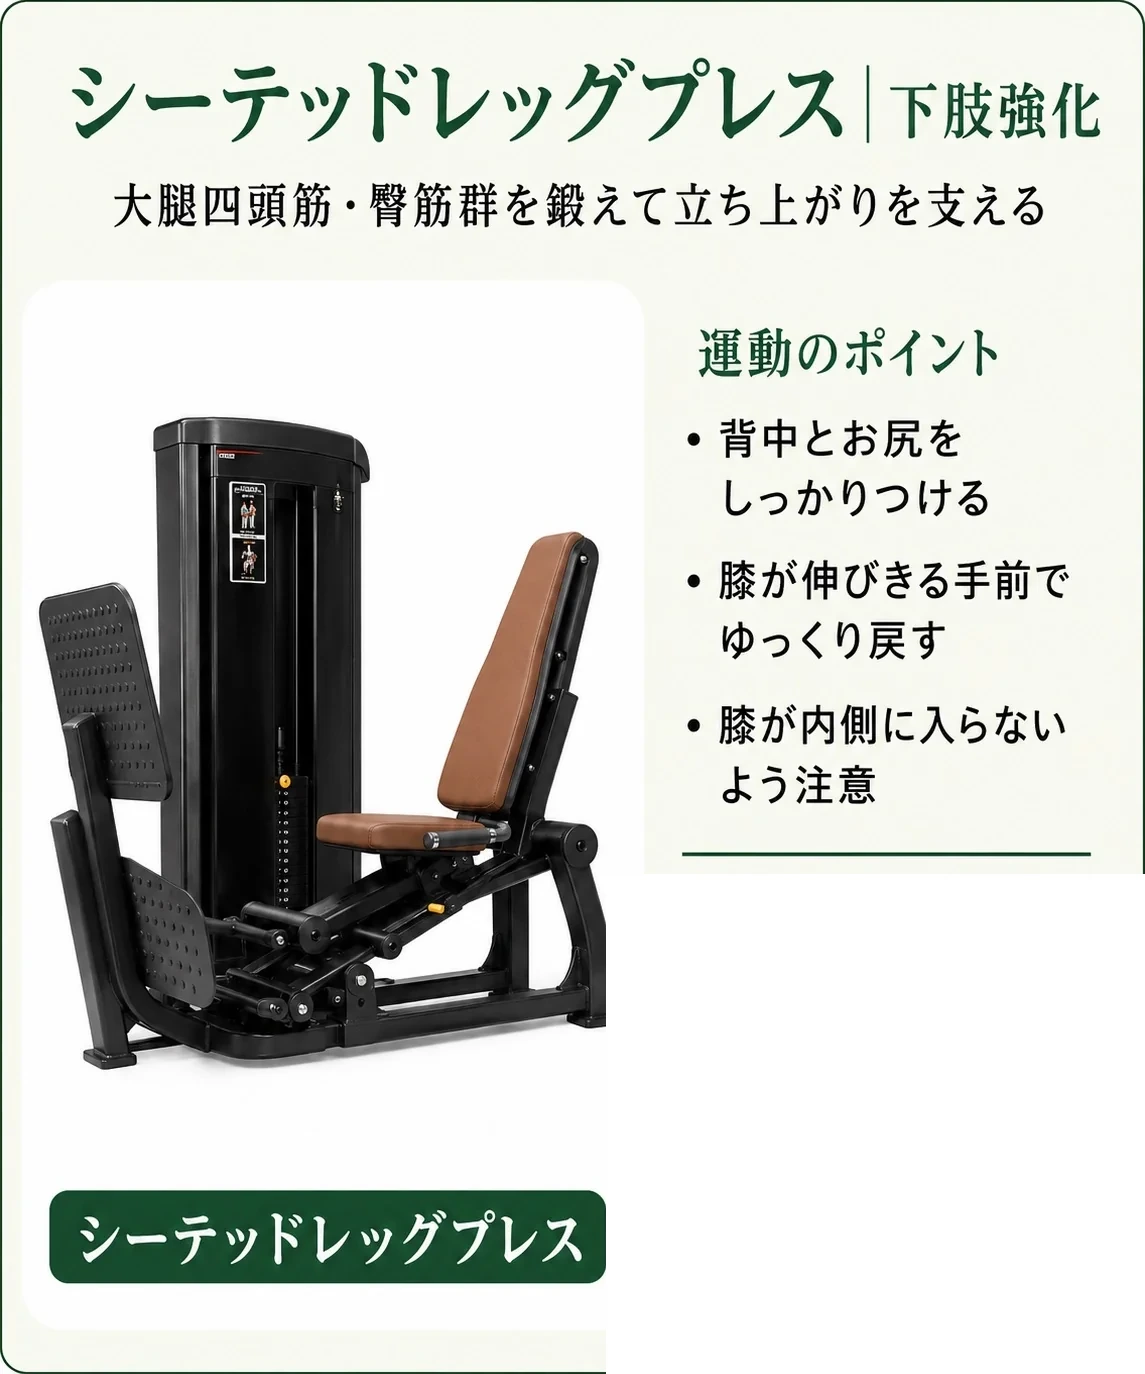
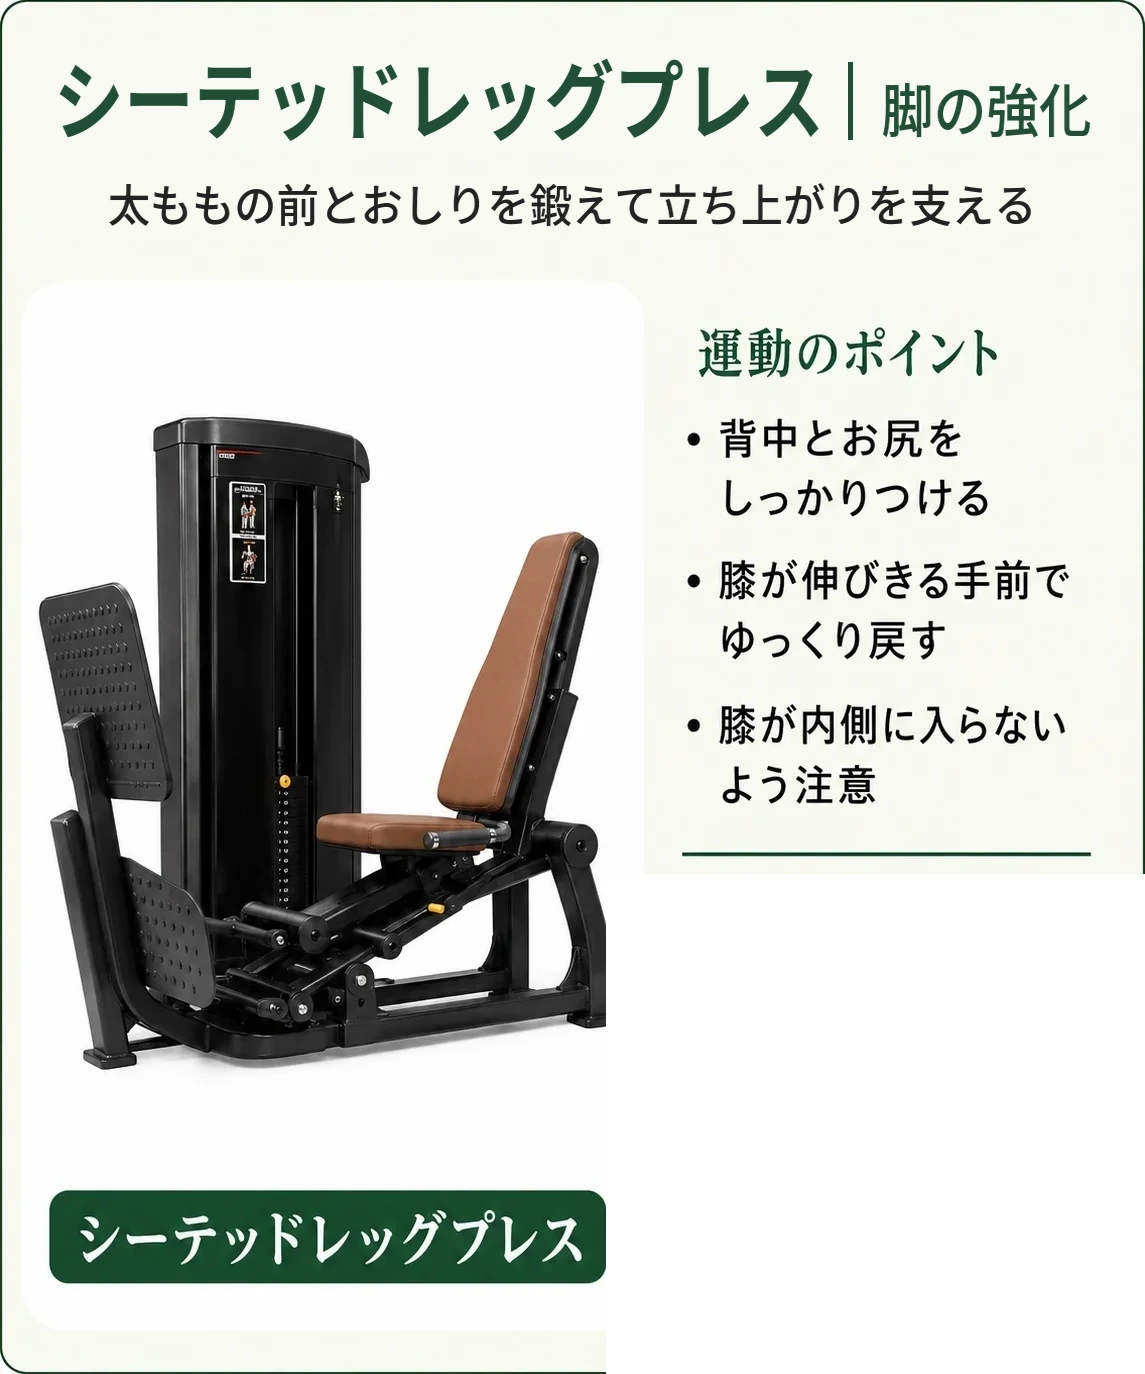
Say it the same way on the training cards
先方の依頼で、2ページ目のカードも部位色分け図の言い方に揃える。1ページ目だけ直した
状態では、カードが「大腿四頭筋」「臀筋群」「広背筋」「ハムストリングス」のままで、
同じレポートの中で同じ場所を2通りに呼んでいた。

- メニューに出る16枚のうち10枚の、タイトル右のタグとキャッチ1行を書き換え
  （下肢強化→脚の強化、もも裏強化→太ももの後ろ強化 など）
- 写真・運動のポイント・下部ラベルは支給カードのまま。差分は上部20%だけで、
  それ以外の画素は元画像と完全一致することを確認済み
- scripts/rewrite-card-copy.py を追加。元画像から位置・字面の高さ・1文字あたりの幅・
  線の濃さを実測して同じ見た目で描き直す（座標も書体も決め打ちにしない）
- 「肩甲骨」「体幹」「骨盤」「背骨」は通じる言葉なので残す。「膝」は仕様書①の表記に合わせる
- 「VMOを意識」は仕様書④の文言そのままなので独断では変えない（先方確認待ち）

Claude-Session: https://claude.ai/code/session_01UmzzeZxLjjBZmVRgXoNJge

Changed region(s): [[0.0611, 0.0306, 0.9782, 0.1834]]

diff --git a/scripts/rewrite-card-copy.py b/scripts/rewrite-card-copy.py
@@ -1,0 +1,280 @@
+#!/usr/bin/env python3
+"""カード画像のタイトル右のタグとキャッチ文を、先方の部位色分け図の言い方に書き換える。
+
+なぜ必要か（先方 UGOQ からの依頼・2026-09-09）:
+  1ページ目の筋肉リストを一般の方が分かる部位名（首＝頚部、太ももの前＝大腿部・前面 …）
+  に変えたのに、2ページ目のカードは「大腿四頭筋」「臀筋群」「広背筋」「ハムストリングス」
+  のままで、同じレポートの中で同じ場所を2通りに呼んでいた。カードも図の言い方に揃える。
+
+書き換えの方針:
+  - 患者が読めない筋肉名だけを部位名に置き換える。
+  - 「肩甲骨」「体幹」「骨盤」「背骨」は普通に通じるので、必要以上に触らない。
+  - 「膝」は先方の仕様書（姿勢分析マスター）が膝表記なので、そちらに合わせて残す。
+
+作り方の方針:
+  カードは先方支給で、サイズも余白も組み方も1枚ずつ違う。座標も書体も決め打ちにせず、
+  元の1行から「位置・字面の高さ・1文字あたりの幅・線の濃さ」を実測して同じ見た目で
+  描き直す。元の書体は手元に無いので、Noto Sans JP を可変ウェイトで同じ濃さに寄せ、
+  横方向だけ元の字幅まで潰して長体を再現する。
+
+リポジトリルートから:
+    python scripts/rewrite-card-copy.py
+初回に assets/exercises/pre-copy/ へ元画像を退避するので、何度流しても結果は同じ。
+"""
+
+import os
+import shutil
+import sys
+
+import numpy as np
+from PIL import Image, ImageDraw, ImageFont
+
+ROOT = os.path.normpath(os.path.join(os.path.dirname(__file__), ".."))
+EX = os.path.join(ROOT, "assets", "exercises")
+BACKUP = os.path.join(EX, "pre-copy")
+
+FONT_PATH = r"C:\Windows\Fonts\NotoSansJP-VF.ttf"
+WEIGHTS = ["Light", "Regular", "Medium", "SemiBold", "Bold", "ExtraBold", "Black"]
+GREEN = (33, 78, 52)
+BLACK = (34, 34, 34)
+EDGE = 26  # カード外周の枠線を文字と見間違えないための左右マージン
+
+# 出力名 -> 変更内容。before は「元のカードに何と書いてあったか」。
+# 字数から1文字あたりの幅を、濃さからウェイトを割り出すのに使う（記録も兼ねる）。
+CHANGES = {
+    "47852239-9C3A-4B47-B9FE-142572EFF0E9": {  # アブドミナル
+        "catch": ("腹筋群を鍛えて座位姿勢を安定", "お腹を鍛えて座った姿勢を安定"),
+    },
+    "3A4181BD-5FF1-436D-8880-DF9B496A16C9": {  # インナー、アウターサイ
+        "catch": ("内もも・外ももを鍛えて骨盤の安定を支える",
+                  "太ももの内側・外側を鍛えて骨盤の安定を支える"),
+    },
+    "D707D2D4-0E2A-4033-9A9F-722379755957": {  # バックエクステンションベンチ
+        "catch": ("脊柱起立筋を鍛えて姿勢を支える", "背中と腰を鍛えて姿勢を支える"),
+    },
+    "956B29CA-C3D4-43B7-A627-96E324DEB845": {  # ヒップスラスト
+        "catch": ("臀筋群を鍛えて骨盤を支える", "おしりを鍛えて骨盤を支える"),
+    },
+    "70979BF0-ADE4-4DD5-B203-9AF216E8A7C5": {  # ラットプルダウン
+        "catch": ("広背筋を鍛えて肩まわりと姿勢を支える", "背中を鍛えて肩まわりと姿勢を支える"),
+    },
+    "70FEA71D-817C-4ADC-8076-92ABEE5AD0D7": {  # レッグエクステンション
+        "title": (("レッグエクステンション", "太もも前強化"),
+                  ("レッグエクステンション", "太ももの前強化")),
+        "catch": ("大腿四頭筋を鍛えて立ち上がりを支える", "太ももの前を鍛えて立ち上がりを支える"),
+    },
+    "A1F2FF6B-C281-44D5-BFF9-48058F49DD3A": {  # シーテッドレッグカール
+        "title": (("シーテッドレッグカール", "もも裏強化"),
+                  ("シーテッドレッグカール", "太ももの後ろ強化")),
+        "catch": ("ハムストリングスを鍛えて膝まわりを安定", "太ももの後ろを鍛えて膝まわりを安定"),
+    },
+    "071D6111-4469-4F5B-A134-BBEEB4CC5FC4": {  # シーテッドレッグプレス
+        "title": (("シーテッドレッグプレス", "下肢強化"),
+                  ("シーテッドレッグプレス", "脚の強化")),
+        "catch": ("大腿四頭筋・臀筋群を鍛えて立ち上がりを支える",
+                  "太ももの前とおしりを鍛えて立ち上がりを支える"),
+    },
+    "rakuretch-adductor": {
+        "catch": ("内ももを伸ばして股関節まわりの動きをなめらかに",
+                  "太ももの内側を伸ばして股関節まわりの動きをなめらかに"),
+    },
+    "rakuretch-chest": {
+        "catch": ("胸筋群を伸ばして巻き肩をリセット", "胸を伸ばして巻き肩をリセット"),
+    },
+}
+
+_PROBE = ImageDraw.Draw(Image.new("RGB", (8, 8)))
+
+
+def font(size, weight):
+    f = ImageFont.truetype(FONT_PATH, max(6, int(round(size))))
+    try:
+        f.set_variation_by_name(weight)
+    except Exception:
+        pass
+    return f
+
+
+def is_ink(a):
+    return a.sum(axis=-1) < 430
+
+
+def text_rows(a, w, h):
+    """カード上部の文字行を上から順に (y0, y1, x0, x1) で返す。外周の枠線は落とす。"""
+    dark = is_ink(a[:, EDGE:w - EDGE])
+    prof = dark[: int(h * 0.28)].sum(axis=1)
+    bands, cur = [], None
+    for y, v in enumerate(prof):
+        if v > 3 and cur is None:
+            cur = y
+        elif v <= 3 and cur is not None:
+            if y - cur > 10:
+                bands.append((cur, y - 1))
+            cur = None
+    out = []
+    for y0, y1 in bands:
+        xs = np.where(dark[y0:y1 + 1].sum(axis=0) > 0)[0] + EDGE
+        if xs.max() - xs.min() > w * 0.93 and (y1 - y0) < 30:
+            continue  # 角丸の枠線
+        out.append((y0, y1, int(xs.min()), int(xs.max())))
+    return out
+
+
+def split_title(a, band):
+    """タイトル行を、真ん中の縦罫線でマシン名とタグに割る。"""
+    y0, y1, x0, x1 = band
+    dark = is_ink(a[y0:y1 + 1, :])
+    colh = dark.sum(axis=0)
+    tall = (y1 - y0 + 1) * 0.70
+    empty = colh <= 1
+    runs, cur = [], None
+    for x in range(x0 + 30, x1 - 20):
+        if colh[x] >= tall and cur is None:
+            cur = x
+        elif colh[x] < tall and cur is not None:
+            runs.append((cur, x - 1))
+            cur = None
+    # 罫線は「背が高い・細い・両側が空いている」列。文字の縦画と紛れないよう空白まで見る。
+    cand = [(a0 + a1) // 2 for a0, a1 in runs
+            if a1 - a0 <= 9 and empty[max(0, a0 - 14):a0].all() and empty[a1 + 1:a1 + 15].all()]
+    if not cand:
+        raise RuntimeError("縦罫線が見つからない")
+    rule = max(cand, key=lambda x: min(x - x0, x1 - x))
+
+    def bbox(xa, xb):
+        sub = dark[:, xa:xb]
+        xs = np.where(sub.sum(axis=0) > 0)[0] + xa
+        ys = np.where(sub.sum(axis=1) > 0)[0] + y0
+        return int(xs.min()), int(ys.min()), int(xs.max()), int(ys.max())
+
+    return rule, bbox(x0, rule - 8), bbox(rule + 8, x1 + 1)
+
+
+def bg_color(a, y0):
+    """行のすぐ上から地色を拾う（カードごとに違う）。"""
+    strip = a[max(0, y0 - 10):max(1, y0 - 3), EDGE:-EDGE]
+    return tuple(int(v) for v in np.median(strip.reshape(-1, 3), axis=0))
+
+
+def ink_ratio(a, box):
+    x0, y0, x1, y1 = box
+    return float(is_ink(a[y0:y1 + 1, x0:x1 + 1]).mean())
+
+
+def fit_height(text, target_h, weight):
+    """字面の高さが target_h になるフォントサイズ。"""
+    lo, hi, best = 8, 160, (10 ** 9, 20)
+    while lo <= hi:
+        mid = (lo + hi) // 2
+        b = _PROBE.textbbox((0, 0), text, font=font(mid, weight))
+        got = b[3] - b[1]
+        best = min(best, (abs(got - target_h), mid))
+        if got < target_h:
+            lo = mid + 1
+        else:
+            hi = mid - 1
+    return best[1]
+
+
+def match_weight(before, target_h, target_ink, bg, color):
+    """元の行と同じ濃さになるウェイトを選ぶ。元の書体が手元に無いので濃度で寄せる。
+    比較は「元と同じ文言」を描いて行う（漢字とかなで濃さが違うため）。"""
+    best = None
+    for name in WEIGHTS:
+        f = font(fit_height(before, target_h, name), name)
+        b = _PROBE.textbbox((0, 0), before, font=f)
+        im = Image.new("RGB", (b[2] - b[0] + 2, b[3] - b[1] + 2), bg)
+        ImageDraw.Draw(im).text((1 - b[0], 1 - b[1]), before, font=f, fill=color)
+        got = float(is_ink(np.array(im).astype(int)).mean())
+        cand = (abs(got - target_ink), name)
+        if best is None or cand < best:
+            best = cand
+    return best[1]
+
+
+def draw_squeezed(im, text, f, color, target_w, x, y_top):
+    """描いてから横だけ target_w に潰す。元カードのタイトルは長体で、等幅では合わない。"""
+    b = _PROBE.textbbox((0, 0), text, font=f)
+    tw, th = b[2] - b[0], b[3] - b[1]
+    pad = 6
+    layer = Image.new("RGBA", (tw + pad * 2, th + pad * 2), (0, 0, 0, 0))
+    ImageDraw.Draw(layer).text((pad - b[0], pad - b[1]), text, font=f, fill=color + (255,))
+    k = target_w / tw
+    layer = layer.resize((max(1, int(round(layer.width * k))), layer.height), Image.LANCZOS)
+    im.paste(layer, (int(round(x - pad * k)), int(round(y_top - pad))), layer)
+
+
+def rewrite(name, spec):
+    im = Image.open(os.path.join(BACKUP, name + ".webp")).convert("RGB")
+    a = np.array(im).astype(int)
+    w, h = im.size
+    rows = text_rows(a, w, h)
+    if len(rows) < 2:
+        raise RuntimeError(f"{name}: 文字行を2つ見つけられない ({rows})")
+    d = ImageDraw.Draw(im)
+    notes = []
+
+    if "title" in spec:
+        (m_be, t_be), (m_af, t_af) = spec["title"]
+        y0, y1, _, _ = rows[0]
+        rule, mb, tb = split_title(a, rows[0])
+        bg = bg_color(a, y0)
+        m_h, t_h = mb[3] - mb[1] + 1, tb[3] - tb[1] + 1
+        m_unit = (mb[2] - mb[0] + 1) / len(m_be)  # 元の1文字あたりの幅
+        t_unit = (tb[2] - tb[0] + 1) / len(t_be)
+        gap = rule - mb[2]
+        m_wt = match_weight(m_be, m_h, ink_ratio(a, mb), bg, GREEN)
+        t_wt = match_weight(t_be, t_h, ink_ratio(a, tb), bg, GREEN)
+
+        tw, sw = m_unit * len(m_af), t_unit * len(t_af)
+        limit = w - 2 * (EDGE + 18)
+        total = tw + gap * 2 + 5 + sw
+        if total > limit:  # 字数が増えて入らない分だけ等比で詰める
+            k = (limit - gap * 2 - 5) / (tw + sw)
+            tw, sw, total = tw * k, sw * k, limit
+
+        d.rectangle([EDGE, y0 - 8, w - EDGE, y1 + 8], fill=bg)
+        x = w / 2 - total / 2
+        draw_squeezed(im, m_af, font(fit_height(m_af, m_h, m_wt), m_wt), GREEN, tw, x, mb[1])
+        rx = int(round(x + tw + gap))
+        d.line([(rx, y0 + 4), (rx, y1 - 2)], fill=GREEN, width=5)
+        draw_squeezed(im, t_af, font(fit_height(t_af, t_h, t_wt), t_wt), GREEN, sw,
+                      rx + gap + 5, tb[3] - t_h + 1)
+        notes.append(f"title「{m_af}｜{t_af}」{m_wt}/{t_wt} 幅{int(total)}≦{limit}")
+
+    if "catch" in spec:
+        before, after = spec["catch"]
+        y0, y1, x0, x1 = rows[1]
+        bg = bg_color(a, y0)
+        c_h = y1 - y0 + 1
+        unit = (x1 - x0 + 1) / len(before)
+        wt = match_weight(before, c_h, ink_ratio(a, (x0, y0, x1, y1)), bg, BLACK)
+        tw = min(unit * len(after), w - 2 * (EDGE + 18))
+        # 元が中央寄せか左寄せかは、行の中心がカード中心からどれだけ離れているかで見る。
+        # 左余白だけで見ると、単に文言が長い行を左寄せと誤判定する。
+        keep_left = abs((x0 + x1) // 2 - w // 2) > w * 0.05
+        x = x0 if keep_left else w / 2 - tw / 2
+        x = max(EDGE + 10, min(x, w - EDGE - 10 - tw))
+        d.rectangle([EDGE, y0 - 6, w - EDGE, y1 + 6], fill=bg)
+        draw_squeezed(im, after, font(fit_height(after, c_h, wt), wt), BLACK, tw, x, y0)
+        notes.append(f"catch「{after}」{wt} {'左寄せ' if keep_left else '中央'}")
+
+    im.save(os.path.join(EX, name + ".webp"), "WEBP", quality=92, method=6)
+    print(f"  {name[:20]:22s} " + " / ".join(notes))
+
+
+def main():
+    os.makedirs(BACKUP, exist_ok=True)
+    for name in CHANGES:
+        src, bak = os.path.join(EX, name + ".webp"), os.path.join(BACKUP, name + ".webp")
+        if not os.path.exists(src):
+            sys.exit(f"カードが無い: {src}")
+        if not os.path.exists(bak):
+            shutil.copy2(src, bak)
+    print(f"カード文言の書き換え（{len(CHANGES)}枚）")
+    for name, spec in CHANGES.items():
+        rewrite(name, spec)
+
+
+if __name__ == "__main__":
+    main()

diff --git a/UGOQ_RULEBOOK.md b/UGOQ_RULEBOOK.md
@@ -154,6 +154,37 @@ L3・L4 は元から①が下肢種目で、先頭が動かない。
 
 - 入力（`.gitignore` 済みの先方資料）：`素材/ラクレッチ改/*.jpg`、`レクスコマシン/`
 - 出力：`assets/exercises/rakuretch-*.webp`、`assets/exercises/calf-raise.webp`
+
+### カードの文言を部位名にそろえた（2026-09-09）
+
+先方から部位の色分け図（前面／後面）が届き、レポートの筋肉名を一般の方が分かる部位名に
+変える依頼を受けた。1ページ目だけ直すと、2ページ目のカードが「大腿四頭筋」「臀筋群」
+「広背筋」「ハムストリングス」のままで、同じレポートの中で同じ場所を2通りに呼ぶことになる。
+そこでメニューに出る16枚のうち10枚の**タイトル右のタグとキャッチ1行**を書き換えた
+（`scripts/rewrite-card-copy.py`）。写真・運動のポイント・下部ラベルは支給カードのまま。
+
+| カード | 変更前 | 変更後 |
+|---|---|---|
+| アブドミナル | 腹筋群を鍛えて座位姿勢を安定 | お腹を鍛えて座った姿勢を安定 |
+| インナー、アウターサイ | 内もも・外ももを鍛えて… | 太ももの内側・外側を鍛えて… |
+| バックエクステンションベンチ | 脊柱起立筋を鍛えて姿勢を支える | 背中と腰を鍛えて姿勢を支える |
+| ヒップスラスト | 臀筋群を鍛えて骨盤を支える | おしりを鍛えて骨盤を支える |
+| ラットプルダウン | 広背筋を鍛えて… | 背中を鍛えて… |
+| レッグエクステンション | 太もも前強化／大腿四頭筋を鍛えて… | 太ももの前強化／太ももの前を鍛えて… |
+| シーテッドレッグカール | もも裏強化／ハムストリングスを鍛えて… | 太ももの後ろ強化／太ももの後ろを鍛えて… |
+| シーテッドレッグプレス | 下肢強化／大腿四頭筋・臀筋群を鍛えて… | 脚の強化／太ももの前とおしりを鍛えて… |
+| ラクレッチ、アダクター | 内ももを伸ばして… | 太ももの内側を伸ばして… |
+| ラクレッチ、チェスト | 胸筋群を伸ばして巻き肩をリセット | 胸を伸ばして巻き肩をリセット |
+
+触っていないもの。**「肩甲骨」「体幹」「骨盤」「背骨」**は普通に通じる言葉なので、
+先方のカードのデザインを必要以上に書き換えない方針で残した。**「膝」**も、
+仕様書①の姿勢分析マスターが「骨盤・膝・足部正常」と膝表記なのでそちらに合わせている。
+**「VMOを意識」**（仕様書④ X脚のレッグエクステンション）は先方の文言そのままなので、
+患者が読めない語だが独断では変えていない。先方確認待ち。
+
+書き換えは元画像から「位置・字面の高さ・1文字あたりの幅・線の濃さ」を実測して
+同じ見た目で描き直す。元の書体は手元に無いので Noto Sans JP を可変ウェイトで
+同じ濃さに寄せ、横だけ元の字幅まで潰して長体を再現している。
 - ファイル名を UUID から変えたのは、同名で上書きすると GitHub Pages のブラウザキャッシュで
   しばらく旧写真が出るため。旧5枚は再生成の土台に使うので消していない。
 
